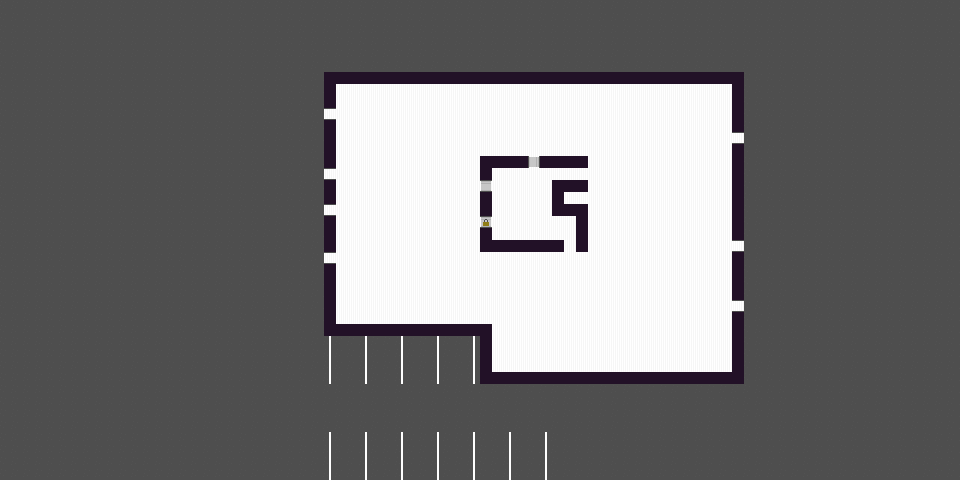
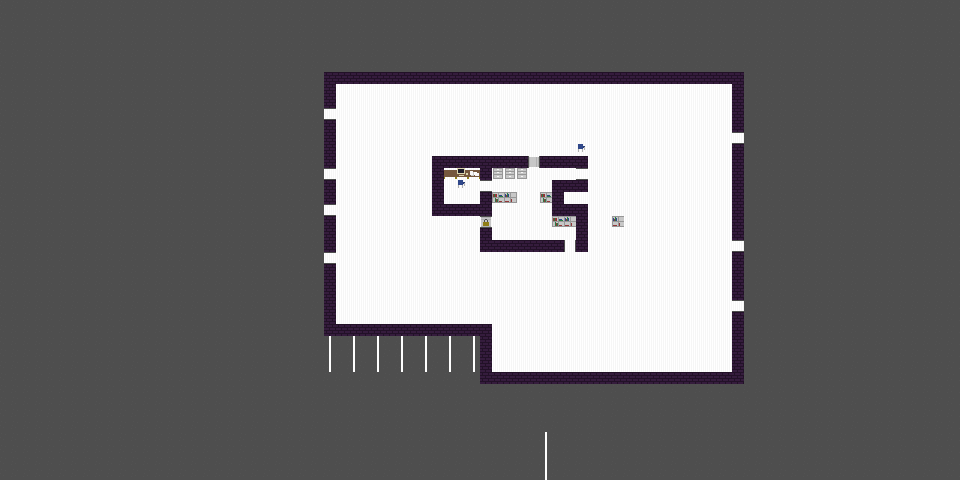
interactions

Changed region(s): [[0.4375, 0.3125, 0.6562, 0.4688], [0.4375, 0.7188, 0.4688, 0.7812], [0.375, 0.7188, 0.4062, 0.7812]]

diff --git a/assets/tileset.tsx b/assets/tileset.tsx
@@ -1,6 +1,6 @@
 <?xml version="1.0" encoding="UTF-8"?>
-<tileset version="1.10" tiledversion="1.10.1" name="tileset12" tilewidth="12" tileheight="12" tilecount="17" columns="17">
- <image source="img/tileset.png" width="204" height="12"/>
+<tileset version="1.10" tiledversion="1.10.1" name="Infiltration Game" tilewidth="16" tileheight="16" tilecount="10" columns="10">
+ <image source="tileset.png" width="160" height="16"/>
  <tile id="0">
   <properties>
    <property name="collides" type="bool" value="false"/>
@@ -49,41 +49,6 @@
  <tile id="9">
   <properties>
    <property name="collides" type="bool" value="false"/>
-  </properties>
- </tile>
- <tile id="10">
-  <properties>
-   <property name="collides" type="bool" value="true"/>
-  </properties>
- </tile>
- <tile id="11">
-  <properties>
-   <property name="collides" type="bool" value="true"/>
-  </properties>
- </tile>
- <tile id="12">
-  <properties>
-   <property name="collides" type="bool" value="true"/>
-  </properties>
- </tile>
- <tile id="13">
-  <properties>
-   <property name="collides" type="bool" value="false"/>
-  </properties>
- </tile>
- <tile id="14">
-  <properties>
-   <property name="collides" type="bool" value="true"/>
-  </properties>
- </tile>
- <tile id="15">
-  <properties>
-   <property name="collides" type="bool" value="true"/>
-  </properties>
- </tile>
- <tile id="16">
-  <properties>
-   <property name="collides" type="bool" value="true"/>
   </properties>
  </tile>
 </tileset>

diff --git a/core/src/uk/co/zacgarby/infiltrate/systems/InputSystem.java b/core/src/uk/co/zacgarby/infiltrate/systems/InputSystem.java
@@ -3,12 +3,11 @@ package uk.co.zacgarby.infiltrate.systems;
 import com.badlogic.ashley.core.Entity;
 import com.badlogic.ashley.core.Family;
 import com.badlogic.ashley.systems.IteratingSystem;
+import com.badlogic.ashley.utils.ImmutableArray;
 import com.badlogic.gdx.Gdx;
+import com.badlogic.gdx.math.Interpolation;
 import com.badlogic.gdx.math.Vector2;
-import uk.co.zacgarby.infiltrate.components.AnimationComponent;
-import uk.co.zacgarby.infiltrate.components.Families;
-import uk.co.zacgarby.infiltrate.components.MovementComponent;
-import uk.co.zacgarby.infiltrate.components.MovementControlsComponent;
+import uk.co.zacgarby.infiltrate.components.*;
 
 public class InputSystem extends IteratingSystem {
     public InputSystem() {
@@ -24,6 +23,7 @@ public class InputSystem extends IteratingSystem {
 
         Vector2 move = new Vector2();
 
+        // calculate movement direction
         if (Gdx.input.isKeyPressed(controls.keyUp)) {
             move.y += 1f;
         }
@@ -40,8 +40,15 @@ public class InputSystem extends IteratingSystem {
             move.x += 1f;
         }
 
+        // set player velocity
         movement.velocity = move.nor().scl(controls.speed);
 
+        // update torch direction
+        if (move.len2() > 0.1) {
+            controls.heading.interpolate(move.cpy(), 4.5f * deltaTime, Interpolation.circleIn).nor();
+        }
+
+        // do movement animations
         if (move.x < 0) {
             animation.set(controls.leftAnimation);
         } else if (move.x > 0) {
@@ -52,6 +59,18 @@ public class InputSystem extends IteratingSystem {
             animation.set(controls.upAnimation);
         } else {
             animation.set(controls.stillAnimation);
+        }
+
+        // do interactions
+        if (Gdx.input.isKeyJustPressed(controls.keyInteract)) {
+            ImmutableArray<Entity> interactables = getEngine().getEntitiesFor(
+                    Family.all(InteractableComponent.class).get()
+            );
+
+            if (interactables.size() > 0) {
+                Entity interactable = interactables.first();
+                getEngine().removeEntity(interactable);
+            }
         }
     }
 }

diff --git a/core/src/uk/co/zacgarby/infiltrate/GameScreen.java b/core/src/uk/co/zacgarby/infiltrate/GameScreen.java
@@ -50,31 +50,41 @@ public class GameScreen implements Screen {
         TiledMap map = new TmxMapLoader().load("map12.tmx");
         Texture mapMask = makeMapMask(map, new Pixmap(Gdx.files.internal("img/tileset-mask.png")));
 
+        engine = new Engine();
+
         Entity world = new Entity();
         world.add(new TextureComponent(mapTexture, mapTexture.getWidth(), mapTexture.getHeight(), 0, 0));
         world.add(new PositionComponent(0, 0));
         world.add(new PhysicsWorldComponent(map));
 
-        engine = new Engine();
         engine.addSystem(new RenderSystem(game.batch, camera, lightingShader, mapMask));
         engine.addSystem(new InputSystem());
         engine.addSystem(new PhysicsSystem(world));
         engine.addSystem(new AnimationSystem(0.1f));
         engine.addSystem(new CameraFollowSystem());
+        engine.addSystem(new InteractionSystem());
 
         engine.addEntity(world);
 
         Entity player = new Entity();
+        player.add(new PlayerComponent());
         player.add(new TextureComponent(new Texture("img/agent.png"), 9f, 11f));
         player.add(new TextureSliceComponent(0, 0, 9, 11));
         player.add(new AnimationComponent(1).set(1, 2));
         player.add(new PositionComponent(540, 300));
-//        player.add(new PositionComponent(0, 0));
         player.add(new MovementComponent());
         player.add(new RigidbodyComponent(2f, 0f, -3.5f));
         player.add(new MovementControlsComponent(200f));
         player.add(new CameraFollowComponent(camera));
         engine.addEntity(player);
+
+        Entity task = new Entity();
+        task.add(new InteractionComponent(36.0f, 12.0f));
+        task.add(new TextureComponent(new Texture("img/highlight.png"), 36f, 12f));
+        task.add(new TextureSliceComponent(0, 0, 1, 1));
+        task.add(new AnimationComponent(4).set(0, 0));
+        task.add(new PositionComponent(38 * 12 + 6, 25 * 12 + 6));
+        engine.addEntity(task);
 
         box2DDebugRenderer = new Box2DDebugRenderer();
         worldForDebug = PhysicsWorldComponent.mapper.get(world).world;

diff --git a/core/src/uk/co/zacgarby/infiltrate/systems/InteractionSystem.java b/core/src/uk/co/zacgarby/infiltrate/systems/InteractionSystem.java
@@ -1,0 +1,49 @@
+package uk.co.zacgarby.infiltrate.systems;
+
+import com.badlogic.ashley.core.Entity;
+import com.badlogic.ashley.core.Family;
+import com.badlogic.ashley.systems.IteratingSystem;
+import com.badlogic.gdx.math.Rectangle;
+import com.badlogic.gdx.math.Vector2;
+import uk.co.zacgarby.infiltrate.components.*;
+
+public class InteractionSystem extends IteratingSystem {
+    public static final float INTERACTION_DIST = 6.0f;
+    private Entity player;
+
+    public InteractionSystem() {
+        super(Families.interaction, 50);
+    }
+
+    @Override
+    protected void processEntity(Entity entity, float deltaTime) {
+        InteractionComponent interaction = InteractionComponent.mapper.get(entity);
+        AnimationComponent anim = AnimationComponent.mapper.get(entity);
+        boolean alreadyInteractable = InteractableComponent.mapper.has(entity);
+
+        Vector2 pos = PositionComponent.mapper.get(entity).position;
+        Vector2 playerPos = PositionComponent.mapper.get(player).position;
+
+        float hw = interaction.width / 2;
+        float hh = interaction.height / 2;
+        float dx = Math.max(pos.x - hw - playerPos.x, Math.max(playerPos.x - pos.x - hw, 0));
+        float dy = Math.max(pos.y - hh - playerPos.y, Math.max(playerPos.y - pos.y - hh, 0));
+        float distSqr = dx*dx + dy*dy;
+
+        if (distSqr <= INTERACTION_DIST * INTERACTION_DIST) {
+            if (!alreadyInteractable) {
+                anim.set(0, 1);
+                entity.add(new InteractableComponent());
+            }
+        } else {
+            anim.set(0, 0);
+            entity.remove(InteractableComponent.class);
+        }
+    }
+
+    @Override
+    public void update(float deltaTime) {
+        player = getEngine().getEntitiesFor(Families.player).first();
+        super.update(deltaTime);
+    }
+}

diff --git a/core/src/uk/co/zacgarby/infiltrate/systems/RenderSystem.java b/core/src/uk/co/zacgarby/infiltrate/systems/RenderSystem.java
@@ -16,10 +16,7 @@ import com.badlogic.gdx.math.Matrix4;
 import com.badlogic.gdx.math.Vector2;
 import com.badlogic.gdx.math.Vector3;
 import com.badlogic.gdx.utils.ScreenUtils;
-import uk.co.zacgarby.infiltrate.components.Families;
-import uk.co.zacgarby.infiltrate.components.PositionComponent;
-import uk.co.zacgarby.infiltrate.components.TextureComponent;
-import uk.co.zacgarby.infiltrate.components.TextureSliceComponent;
+import uk.co.zacgarby.infiltrate.components.*;
 
 public class RenderSystem extends IteratingSystem {
     private final SpriteBatch batch;
@@ -128,9 +125,10 @@ public class RenderSystem extends IteratingSystem {
         shader.setUniformf("u_width", mapMask.getWidth());
         shader.setUniformf("u_height", mapMask.getHeight());
 
-        // heading vector for mouse position
-        Vector3 mouse = camera.unproject(new Vector3(Gdx.input.getX(), Gdx.input.getY(), 0)).sub(camera.position).nor();
-        shader.setUniformf("u_heading", new Vector2(mouse.x, mouse.y));
+        // heading vector for player heading
+        Entity player = getEngine().getEntitiesFor(Families.player).first();
+        MovementControlsComponent control = MovementControlsComponent.mapper.get(player);
+        shader.setUniformf("u_heading", control.heading);
 
         // render the renderables
         super.update(dt);

diff --git a/core/src/uk/co/zacgarby/infiltrate/components/MovementControlsComponent.java b/core/src/uk/co/zacgarby/infiltrate/components/MovementControlsComponent.java
@@ -3,15 +3,20 @@ package uk.co.zacgarby.infiltrate.components;
 import com.badlogic.ashley.core.Component;
 import com.badlogic.ashley.core.ComponentMapper;
 import com.badlogic.gdx.Input;
+import com.badlogic.gdx.math.Vector2;
 
 public class MovementControlsComponent implements Component {
     public static final ComponentMapper<MovementControlsComponent> mapper = ComponentMapper.getFor(MovementControlsComponent.class);
 
-    public int keyLeft = Input.Keys.LEFT;
-    public int keyRight = Input.Keys.RIGHT;
-    public int keyUp = Input.Keys.UP;
-    public int keyDown = Input.Keys.DOWN;
+    public int keyLeft = Input.Keys.A;
+    public int keyRight = Input.Keys.D;
+    public int keyUp = Input.Keys.W;
+    public int keyDown = Input.Keys.S;
+    public int keyInteract = Input.Keys.SPACE;
+
     public float speed;
+
+    public Vector2 heading = new Vector2(1.0f, 1.0f).nor();
     public AnimationComponent.Animation leftAnimation = new AnimationComponent.Animation(3, 4);
     public AnimationComponent.Animation rightAnimation = new AnimationComponent.Animation(1, 2);
     public AnimationComponent.Animation upAnimation = new AnimationComponent.Animation(7, 8);

diff --git a/core/src/uk/co/zacgarby/infiltrate/components/Families.java b/core/src/uk/co/zacgarby/infiltrate/components/Families.java
@@ -3,9 +3,11 @@ package uk.co.zacgarby.infiltrate.components;
 import com.badlogic.ashley.core.Family;
 
 public abstract class Families {
+    public static final Family player = Family.all(PlayerComponent.class).get();
     public static final Family renderable = Family.all(TextureComponent.class, PositionComponent.class).get();
     public static final Family physics = Family.all(RigidbodyComponent.class, PositionComponent.class).get();
     public static final Family control = Family.all(MovementControlsComponent.class, MovementComponent.class, AnimationComponent.class).get();
     public static final Family animated = Family.all(AnimationComponent.class, TextureSliceComponent.class).get();
     public static final Family cameraFollow = Family.all(CameraFollowComponent.class, PositionComponent.class).get();
+    public static final Family interaction = Family.all(InteractionComponent.class).get();
 }

diff --git a/core/src/uk/co/zacgarby/infiltrate/components/PhysicsWorldComponent.java b/core/src/uk/co/zacgarby/infiltrate/components/PhysicsWorldComponent.java
@@ -30,7 +30,15 @@ public class PhysicsWorldComponent implements Component {
 
         for (int y = 0; y < layer.getHeight(); y++) {
             for (int x = 0; x < layer.getWidth(); x++) {
-                if ((boolean) layer.getCell(x, y).getTile().getProperties().get("collides")) {
+                boolean collides;
+
+                try {
+                    collides = (boolean) layer.getCell(x, y).getTile().getProperties().get("collides");
+                } catch (Exception e) {
+                    collides = false;
+                }
+
+                if (collides) {
                     BodyDef bodyDef = new BodyDef();
                     bodyDef.position.set(x * tileSize + tileSize / 2, y * tileSize + tileSize / 2);
 

diff --git a/core/src/uk/co/zacgarby/infiltrate/components/InteractionComponent.java b/core/src/uk/co/zacgarby/infiltrate/components/InteractionComponent.java
@@ -1,0 +1,16 @@
+package uk.co.zacgarby.infiltrate.components;
+
+import com.badlogic.ashley.core.Component;
+import com.badlogic.ashley.core.ComponentMapper;
+import com.badlogic.gdx.math.Rectangle;
+
+public class InteractionComponent implements Component {
+    public static final ComponentMapper<InteractionComponent> mapper = ComponentMapper.getFor(InteractionComponent.class);
+
+    public float width, height;
+
+    public InteractionComponent(float width, float height) {
+        this.width = width;
+        this.height = height;
+    }
+}

diff --git a/core/src/uk/co/zacgarby/infiltrate/components/InteractableComponent.java b/core/src/uk/co/zacgarby/infiltrate/components/InteractableComponent.java
@@ -1,0 +1,8 @@
+package uk.co.zacgarby.infiltrate.components;
+
+import com.badlogic.ashley.core.Component;
+import com.badlogic.ashley.core.ComponentMapper;
+
+public class InteractableComponent implements Component {
+    public static final ComponentMapper<InteractableComponent> mapper = ComponentMapper.getFor(InteractableComponent.class);
+}

diff --git a/core/src/uk/co/zacgarby/infiltrate/components/PlayerComponent.java b/core/src/uk/co/zacgarby/infiltrate/components/PlayerComponent.java
@@ -1,0 +1,8 @@
+package uk.co.zacgarby.infiltrate.components;
+
+import com.badlogic.ashley.core.Component;
+import com.badlogic.ashley.core.ComponentMapper;
+
+public class PlayerComponent implements Component {
+    public static final ComponentMapper<PlayerComponent> mapper = ComponentMapper.getFor(PlayerComponent.class);
+}
